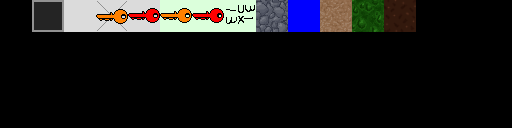
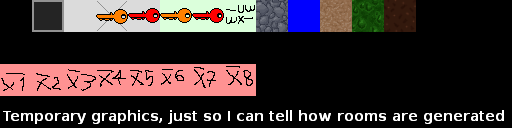
Removed keys/locks A dungeon can now be several floors I got ideas on how to make it work without keys

Changed region(s): [[0.0, 0.5, 0.5, 0.75], [0.0, 0.8438, 1.0, 0.9688]]

diff --git a/src/dungeon_generate.c b/src/dungeon_generate.c
@@ -80,8 +80,8 @@ static void dungeon_map_size(unsigned int *data, int w, int h, int *r_w, int *r_
 }
 
 
-struct dungeon *dungeon_layout_new(int w, int h, int max_room, int min_room, int boss_s) {
-	int n, boss, middle, i;
+struct dungeon *dungeon_layout_new(int w, int h, int max_room, int min_room, int boss_s, int floors) {
+	int n, boss, middle, i, f;
 	unsigned int *tmp_data;
 	struct dungeon *dungeon;
 
@@ -89,113 +89,34 @@ struct dungeon *dungeon_layout_new(int w, int h, int max_room, int min_room, int
 		return NULL;
 	tmp_data = malloc(sizeof(unsigned int) * w * h);
 	middle = w / 2 + h / 2 * w;
+	dungeon->data = malloc(sizeof(int *) * floors);
+	dungeon->room_map = malloc(sizeof(int **) * floors);
+	dungeon->w = malloc(sizeof(int) * floors);
+	dungeon->h = malloc(sizeof(int) * floors);
+	dungeon->floors = floors;
 
-	do {
-		n = 0;
-		boss = !boss_s;
-		memset(tmp_data, 0, w * h * 4);
-		generate_layout(&n, middle, &boss, tmp_data, w, h, min_room, max_room);
-	} while (n < min_room || !boss);
+	for (f = 0; f < floors; f++) {
+		do {
+			n = 0;
+			boss = !boss_s;
+			memset(tmp_data, 0, w * h * 4);
+			generate_layout(&n, middle, &boss, tmp_data, w, h, min_room, max_room);
+		} while (n < min_room || !boss);
 	
-	tmp_data[middle] = MAP_ROOM_TYPE_ENTRANCE;
-	generate_dungeon_layout_adjust(tmp_data, w, h);
-	dungeon_map_size(tmp_data, w, h, &dungeon->w, &dungeon->h);
+		generate_dungeon_layout_adjust(tmp_data, w, h);
+		dungeon_map_size(tmp_data, w, h, &dungeon->w[f], &dungeon->h[f]);
+	
+		dungeon->data[f] = malloc(sizeof(unsigned int) * dungeon->w[f] * dungeon->h[f]);
+		dungeon->room_map[f] = malloc(sizeof(void *) * dungeon->w[f] * dungeon->h[f]);
+		memset(dungeon->room_map[f], 0, dungeon->w[f] * dungeon->h[f] * sizeof(void *));
+		
+		for (i = 0; i < dungeon->h[f]; i++)
+			memcpy(&dungeon->data[f][i * dungeon->w[f]], &tmp_data[i * w], dungeon->w[f] * 4);
+	}
 
-	dungeon->data = malloc(sizeof(unsigned int) * dungeon->w * dungeon->h);
-	dungeon->room_map = malloc(sizeof(void *) * dungeon->w * dungeon->h);
-	memset(dungeon->room_map, 0, dungeon->w * dungeon->h * sizeof(void *));
-
-	for (i = 0; i < dungeon->h; i++)
-		memcpy(&dungeon->data[i * dungeon->w], &tmp_data[i * w], dungeon->w * 4);
-	free(tmp_data);
+	dungeon->layout_scratchpad = tmp_data;
 
 	return dungeon;
-}
-
-
-static void layout_spawn_keylock(unsigned int *data, int w, int h, int i, int *keys, int kcnt, int *step, int *key) {
-	int order[4], dir, l;
-
-	if (i < 0 || i >= w * h)
-		return;
-	if (!(data[i] & 0xFF))
-		return;
-	if (data[i] & MAP_ROOM_TMP_VISIT)
-		return;
-	if ((data[i] & 0xFF) == MAP_ROOM_TYPE_BOSS_ROOM)
-		return;
-	data[i] |= MAP_ROOM_TMP_VISIT;
-
-	(*step)++;
-
-	if ((*step / kcnt != (*step - 1) / kcnt || *step == 1) && *key) {
-		(*keys)++;
-		(*key)--;
-		data[i] |= MAP_ROOM_HAS_KEY;
-	}
-
-	if ((data[i] & 0xFF) == MAP_ROOM_TYPE_ROOM) {
-		if (*keys == 2) {
-			data[i] |= MAP_ROOM_HAS_LOCK;
-			(*keys)--;
-		} else if (*keys)
-			if (!(rand() % kcnt)) {
-				data[i] |= MAP_ROOM_HAS_LOCK;
-				(*keys)--;
-			}
-	} 
-	
-	util_order_randomize(order, 4);
-
-	for (l = 0; l < 4; l++) {
-		dir = util_dir_conv(i, order[l], w, h);
-		layout_spawn_keylock(data, w, h, dir, keys, kcnt, step, key);
-	}
-
-	return;
-}
-
-
-void dungeon_layout_spawn_keylocks(struct dungeon *dungeon, int keylocks, int boss) {
-	int start, keys, step, rooms, boss_loc, i, key;
-
-	if (!keylocks)
-		return;
-	for (i = rooms = 0; i < dungeon->w * dungeon->h; i++)
-		if (dungeon->data[i] & 0xFF)
-			rooms++;
-
-	for (i = 0; i < dungeon->w * dungeon->h; i++)
-		if ((dungeon->data[i] & 0xFF) == MAP_ROOM_TYPE_ENTRANCE) {
-			start = i;
-			break;
-		}
-
-	dungeon->entrance = start;
-	step = keys = 0;
-	key = keylocks;
-	layout_spawn_keylock(dungeon->data, dungeon->w, dungeon->h, start, &keys, rooms / keylocks, &step, &key);
-
-	for (i = 0; i < dungeon->w * dungeon->h; i++)
-		dungeon->data[i] = (dungeon->data[i] & (~0 ^ MAP_ROOM_TMP_VISIT));
-	
-	if (boss) {
-		boss_loc = (rand() % (rooms - 1));
-		for (i = 0; i < dungeon->w * dungeon->h; i++) {
-			if (!(dungeon->data[i] & 0xFF))
-				continue;
-			if ((dungeon->data[i] & 0xFF) == MAP_ROOM_TYPE_BOSS_ROOM)
-				continue;
-			if (!boss_loc) {
-				dungeon->data[i] |= MAP_ROOM_HAS_BOSSKEY;
-				break;
-			}
-
-			boss_loc--;
-		}
-	}
-	
-	return;
 }
 
 
@@ -218,20 +139,20 @@ static unsigned int *dungeon_generate_room_template(const int w, const int h, un
 }
 
 
-static void spawn_doors(struct dungeon *dungeon, int i) {
+static void spawn_doors(struct dungeon *dungeon, int i, int floor) {
 	int l, door, t, x, y;
 
 	for (l = 00; l < 04; l++) {
-		if ((t = util_dir_conv(i, l, dungeon->w, dungeon->h)) == i)
+		if ((t = util_dir_conv(i, l, dungeon->w[floor], dungeon->h[floor])) == i)
 			continue;
-		if (!(dungeon->data[t]))
+		if (!(dungeon->data[floor][t]))
 			continue;
-		switch (dungeon->data[t] & 0377) {
+		switch (dungeon->data[floor][t] & 0377) {
 			case MAP_ROOM_TYPE_ROOM:
-				door = (dungeon->data[t] & MAP_ROOM_HAS_LOCK) ? ROOM_TILE_DOOR_LOCK : ROOM_TILE_DOOR;
+				door = (dungeon->data[floor][t] & MAP_ROOM_HAS_LOCK) ? ROOM_TILE_DOOR_LOCK : ROOM_TILE_DOOR;
 				break;
 			case MAP_ROOM_TYPE_ENTRANCE:
-				door = (dungeon->data[t] & MAP_ROOM_HAS_LOCK) ? ROOM_TILE_DOOR_LOCK : ROOM_TILE_DOOR;
+				door = (dungeon->data[floor][t] & MAP_ROOM_HAS_LOCK) ? ROOM_TILE_DOOR_LOCK : ROOM_TILE_DOOR;
 				break;
 			case MAP_ROOM_TYPE_BOSS_ROOM:
 				door = ROOM_TILE_DOOR_BOSS;
@@ -250,30 +171,76 @@ static void spawn_doors(struct dungeon *dungeon, int i) {
 			x = (l & 02) ? dungeon->room_w - 01 : 00;
 		}
 
-		dungeon->room_map[i][x + y * dungeon->room_w] = door;
+		dungeon->room_map[floor][i][x + y * dungeon->room_w] = door;
 	}
 
 	return;
 }
 
 
-void dungeon_init_floor(struct dungeon *dungeon, int room_w, int room_h) {
-	int i;
+static void spawn_tile(struct dungeon *dungeon, int floor, int room, int tile) {
+	int i, j;
+
+	for (i = j = 00; i < dungeon->room_w * dungeon->room_h; i++)
+		if ((dungeon->room_map[floor][room][i] & 0377) == ROOM_TILE_FLOOR)
+			dungeon->room_scratchpad[j++] = i;
+	if (!j)
+		return;
+	
+	dungeon->room_map[floor][room][dungeon->room_scratchpad[rand() % j]] = tile;
+
+	return;
+}
+
+
+static void spawn_puzzle(struct dungeon *dungeon, int room, int floor) {
+	int complexity;
+
+	complexity = rand() % 2;
+	
+	switch (complexity) {
+		case PUZZLE_TYPE_KILL_ENEMIES:
+			dungeon->data[floor][room] |= MAP_ROOM_LOCK_UNTIL_SAFE;
+			break;
+		default:
+			fprintf(stderr, "TODO: Implement puzzle type %i\n", complexity);
+			break;
+	}
+
+	return;
+}
+
+
+void dungeon_init_floor(struct dungeon *dungeon, int room_w, int room_h, int max_enemy, int entrance_floor) {
+	int i, j, f, g;
 	
 	dungeon->room_w = room_w;
 	dungeon->room_h = room_h;
+	dungeon->room_scratchpad = malloc(sizeof(unsigned int) * room_w * room_h);
+	dungeon->entrance_floor = entrance_floor;
 
-	for (i = 0; i < dungeon->w * dungeon->h; i++) {
-		if (!(dungeon->data[i] & 0xFF))
-			continue;
-		dungeon->room_map[i] = dungeon_generate_room_template(dungeon->room_w, dungeon->room_h, dungeon->data[i]);
+	for (f = 0; f < dungeon->floors; f++) {
+		for (i = 0; i < dungeon->w[f] * dungeon->h[f]; i++) {
+			if (!(dungeon->data[f][i] & 0xFF))
+				continue;
+			dungeon->room_map[f][i] = dungeon_generate_room_template(dungeon->room_w, dungeon->room_h, dungeon->data[f][i]);
+		}
+
+		for (i = g = 0; i < dungeon->w[f] * dungeon->h[f]; i++) {
+			if (!(dungeon->data[f][i] & 0xFF))
+				continue;
+			if (f == entrance_floor && (dungeon->data[f][i] & 0xFF) == MAP_ROOM_TYPE_ROOM)
+				dungeon->layout_scratchpad[g++] = i;
+			spawn_doors(dungeon, i, f);
+			spawn_puzzle(dungeon, i, f);
+	
+			if ((dungeon->data[f][i] & 0xFF) == MAP_ROOM_TYPE_ROOM)
+				for (j = 0; j < rand() % max_enemy; j++)
+					spawn_tile(dungeon, f, i, ROOM_TILE_ENEMY0 + rand() % 8);
+		}
 	}
 
-	for (i = 0; i < dungeon->w * dungeon->h; i++) {
-		if (!(dungeon->data[i] & 0xFF))
-			continue;
-		spawn_doors(dungeon, i);
-	}
+	dungeon->entrance = dungeon->layout_scratchpad[rand() % g];
 
 	return;
 }

diff --git a/src/dungeon_gen.c b/src/dungeon_gen.c
@@ -6,6 +6,7 @@
 
 #define	ROOM_W			12
 #define	ROOM_H			12
+#define	FLOORS			5
 
 int main(int argc, char **argv) {
 	DARNIT_TILESHEET *ts, *room_ts;
@@ -20,16 +21,13 @@ int main(int argc, char **argv) {
 	tm = d_tilemap_new(0xFFF, ts, 0xFFF, 16, 15);
 	room_tm = d_tilemap_new(0xFFF, room_ts, 0xFFF, ROOM_W, ROOM_H);
 
-	dungeon = dungeon_layout_new(tm->w, tm->h, 24, 16, 1);
-	dungeon_layout_spawn_keylocks(dungeon, 5, 1);
-	dungeon_init_floor(dungeon, ROOM_W, ROOM_H);
-	memcpy(room_tm->data, dungeon->room_map[dungeon->entrance], sizeof(unsigned int) * room_tm->w * room_tm->h);
+	dungeon = dungeon_layout_new(tm->w, tm->h, 24, 16, 1, FLOORS);
+	dungeon_init_floor(dungeon, ROOM_W, ROOM_H, 4, FLOORS - 1);
+	memcpy(room_tm->data, dungeon->room_map[FLOORS-1][dungeon->entrance], sizeof(unsigned int) * room_tm->w * room_tm->h);
 	current_room = dungeon->entrance;
 	d_tilemap_recalc(room_tm);
 
-
-	util_blt(tm->data, tm->w, tm->h, 0, 0, dungeon->data, dungeon->w, dungeon->h, 0, 0);
-
+	util_blt(tm->data, tm->w, tm->h, 0, 0, dungeon->data[FLOORS-1], dungeon->w[FLOORS-1], dungeon->h[FLOORS-1], 0, 0);
 	d_tilemap_recalc(tm);
 
 	for (;;) {
@@ -43,16 +41,16 @@ int main(int argc, char **argv) {
 		if (d_keys_get().down)
 			cam_y += 4;
 		if (d_keys_get().l)
-			room = util_dir_conv(current_room, 0, dungeon->w, dungeon->h);
+			room = util_dir_conv(current_room, 0, dungeon->w[FLOORS-1], dungeon->h[FLOORS-1]);
 		if (d_keys_get().r)
-			room = util_dir_conv(current_room, 2, dungeon->w, dungeon->h);
+			room = util_dir_conv(current_room, 2, dungeon->w[FLOORS-1], dungeon->h[FLOORS-1]);
 		if (d_keys_get().y)
-			room = util_dir_conv(current_room, 1, dungeon->w, dungeon->h);
+			room = util_dir_conv(current_room, 1, dungeon->w[FLOORS-1], dungeon->h[FLOORS-1]);
 		if (d_keys_get().x)
-			room = util_dir_conv(current_room, 3, dungeon->w, dungeon->h);
+			room = util_dir_conv(current_room, 3, dungeon->w[FLOORS-1], dungeon->h[FLOORS-1]);
 		if (room != -1 && dungeon->room_map[room]) {
 			d_keys_set(d_keys_get());
-			memcpy(room_tm->data, dungeon->room_map[room], sizeof(unsigned int) * room_tm->w * room_tm->h);
+			memcpy(room_tm->data, dungeon->room_map[FLOORS-1][room], sizeof(unsigned int) * room_tm->w * room_tm->h);
 			d_tilemap_recalc(room_tm);
 			current_room = room;
 		}

diff --git a/src/dungeon_generate.h b/src/dungeon_generate.h
@@ -4,23 +4,34 @@
 #define	MAP_ROOM_HAS_KEY		0x80000000
 #define	MAP_ROOM_HAS_LOCK		0x40000000
 #define	MAP_ROOM_HAS_BOSSKEY		0x20000000
+#define	MAP_ROOM_LOCK_UNTIL_SAFE	0x10000000
 #define	MAP_ROOM_TMP_VISIT		0x1000
 
 
-struct dungeon {
-	int				w;
-	int				h;
-	unsigned int			*data;
-	unsigned int			**room_map;
-	int				room_w;
-	int				room_h;
-	int				entrance;
+struct dungeon_puzzle_part {
+	int				room_link;
+	unsigned int			status;
 };
 
 
-struct dungeon *dungeon_layout_new(int w, int h, int max_room, int min_room, int boss_s);
-void dungeon_layout_spawn_keylocks(struct dungeon *dungeon, int keylocks, int boss);
-void dungeon_init_floor(struct dungeon *dungeon, int room_w, int room_h);
+struct dungeon {
+	int				*w;
+	int				*h;
+	unsigned int			**data;
+	int				floors;
+	struct dungeon_puzzle_part	*puzzle;
+	unsigned int			***room_map;
+	int				room_w;
+	int				room_h;
+	int				entrance;
+	int				entrance_floor;
+	unsigned int			*room_scratchpad;
+	unsigned int			*layout_scratchpad;
+};
+
+
+struct dungeon *dungeon_layout_new(int w, int h, int max_room, int min_room, int boss_s, int floors);
+void dungeon_init_floor(struct dungeon *dungeon, int room_w, int room_h, int max_enemy, int entrance_floor);
 
 enum MAP_ROOM_TYPE {
 	MAP_ROOM_TYPE_NOTHING		= 0,
@@ -41,6 +52,14 @@ enum ROOM_TILE {
 	ROOM_TILE_CHEST			= 7,
 	ROOM_TILE_FLOOR			= 10,
 	ROOM_TILE_WATER			= 11,
+
+	ROOM_TILE_ENEMY0		= 32,
+};
+
+
+enum PUZZLE_TYPE {
+	PUZZLE_TYPE_NONE		= 0,
+	PUZZLE_TYPE_KILL_ENEMIES	= 1,
 };
 
 
